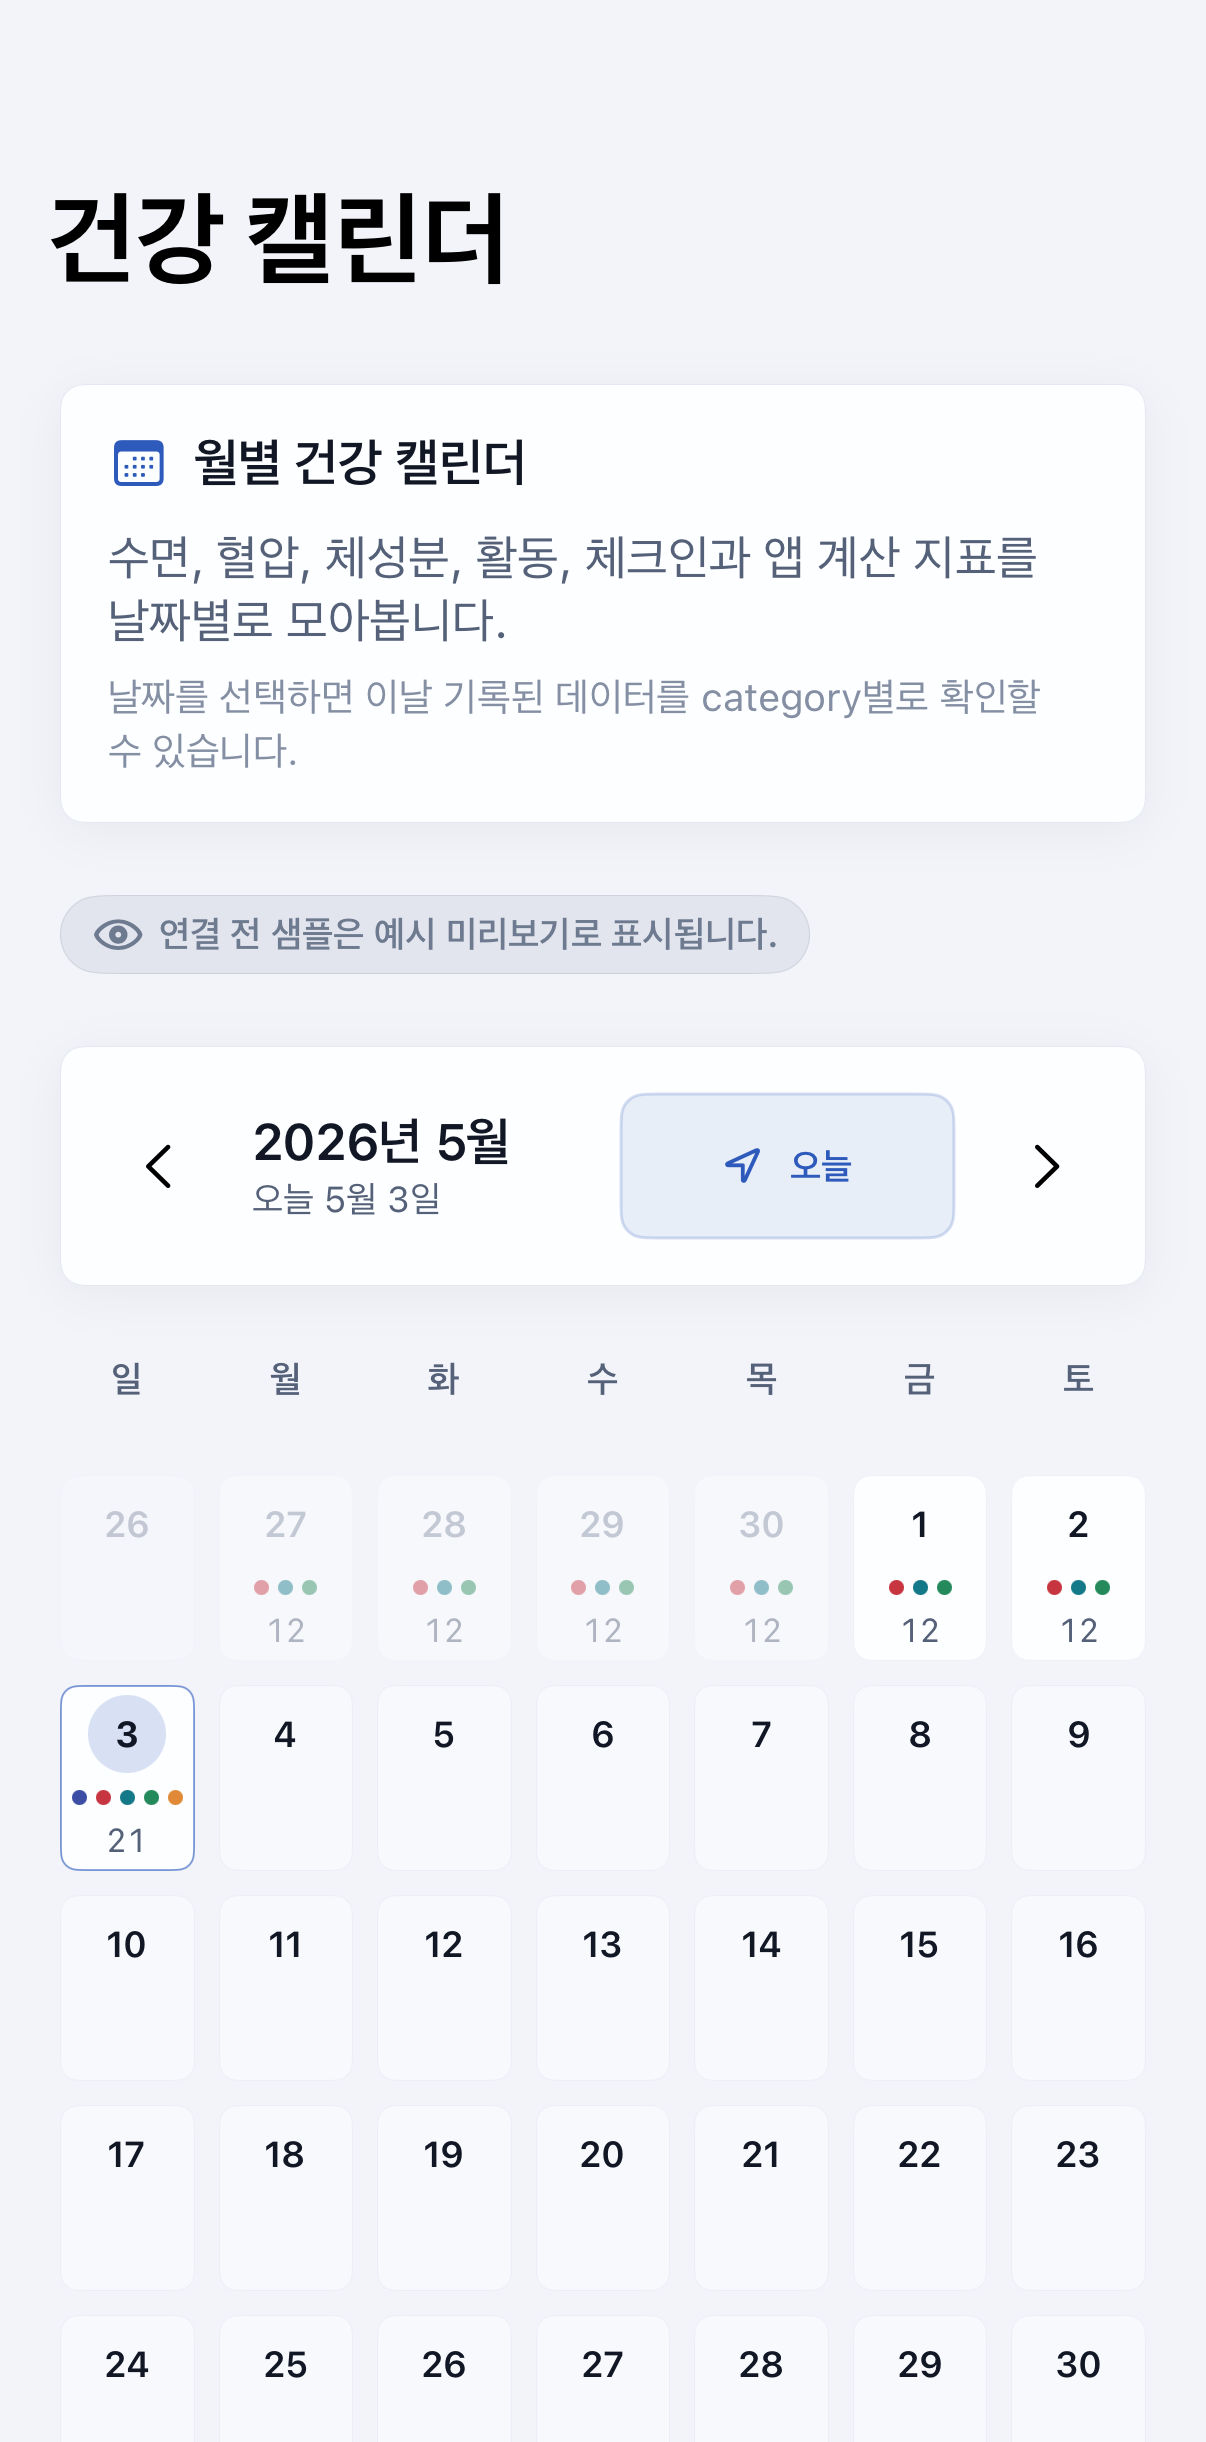
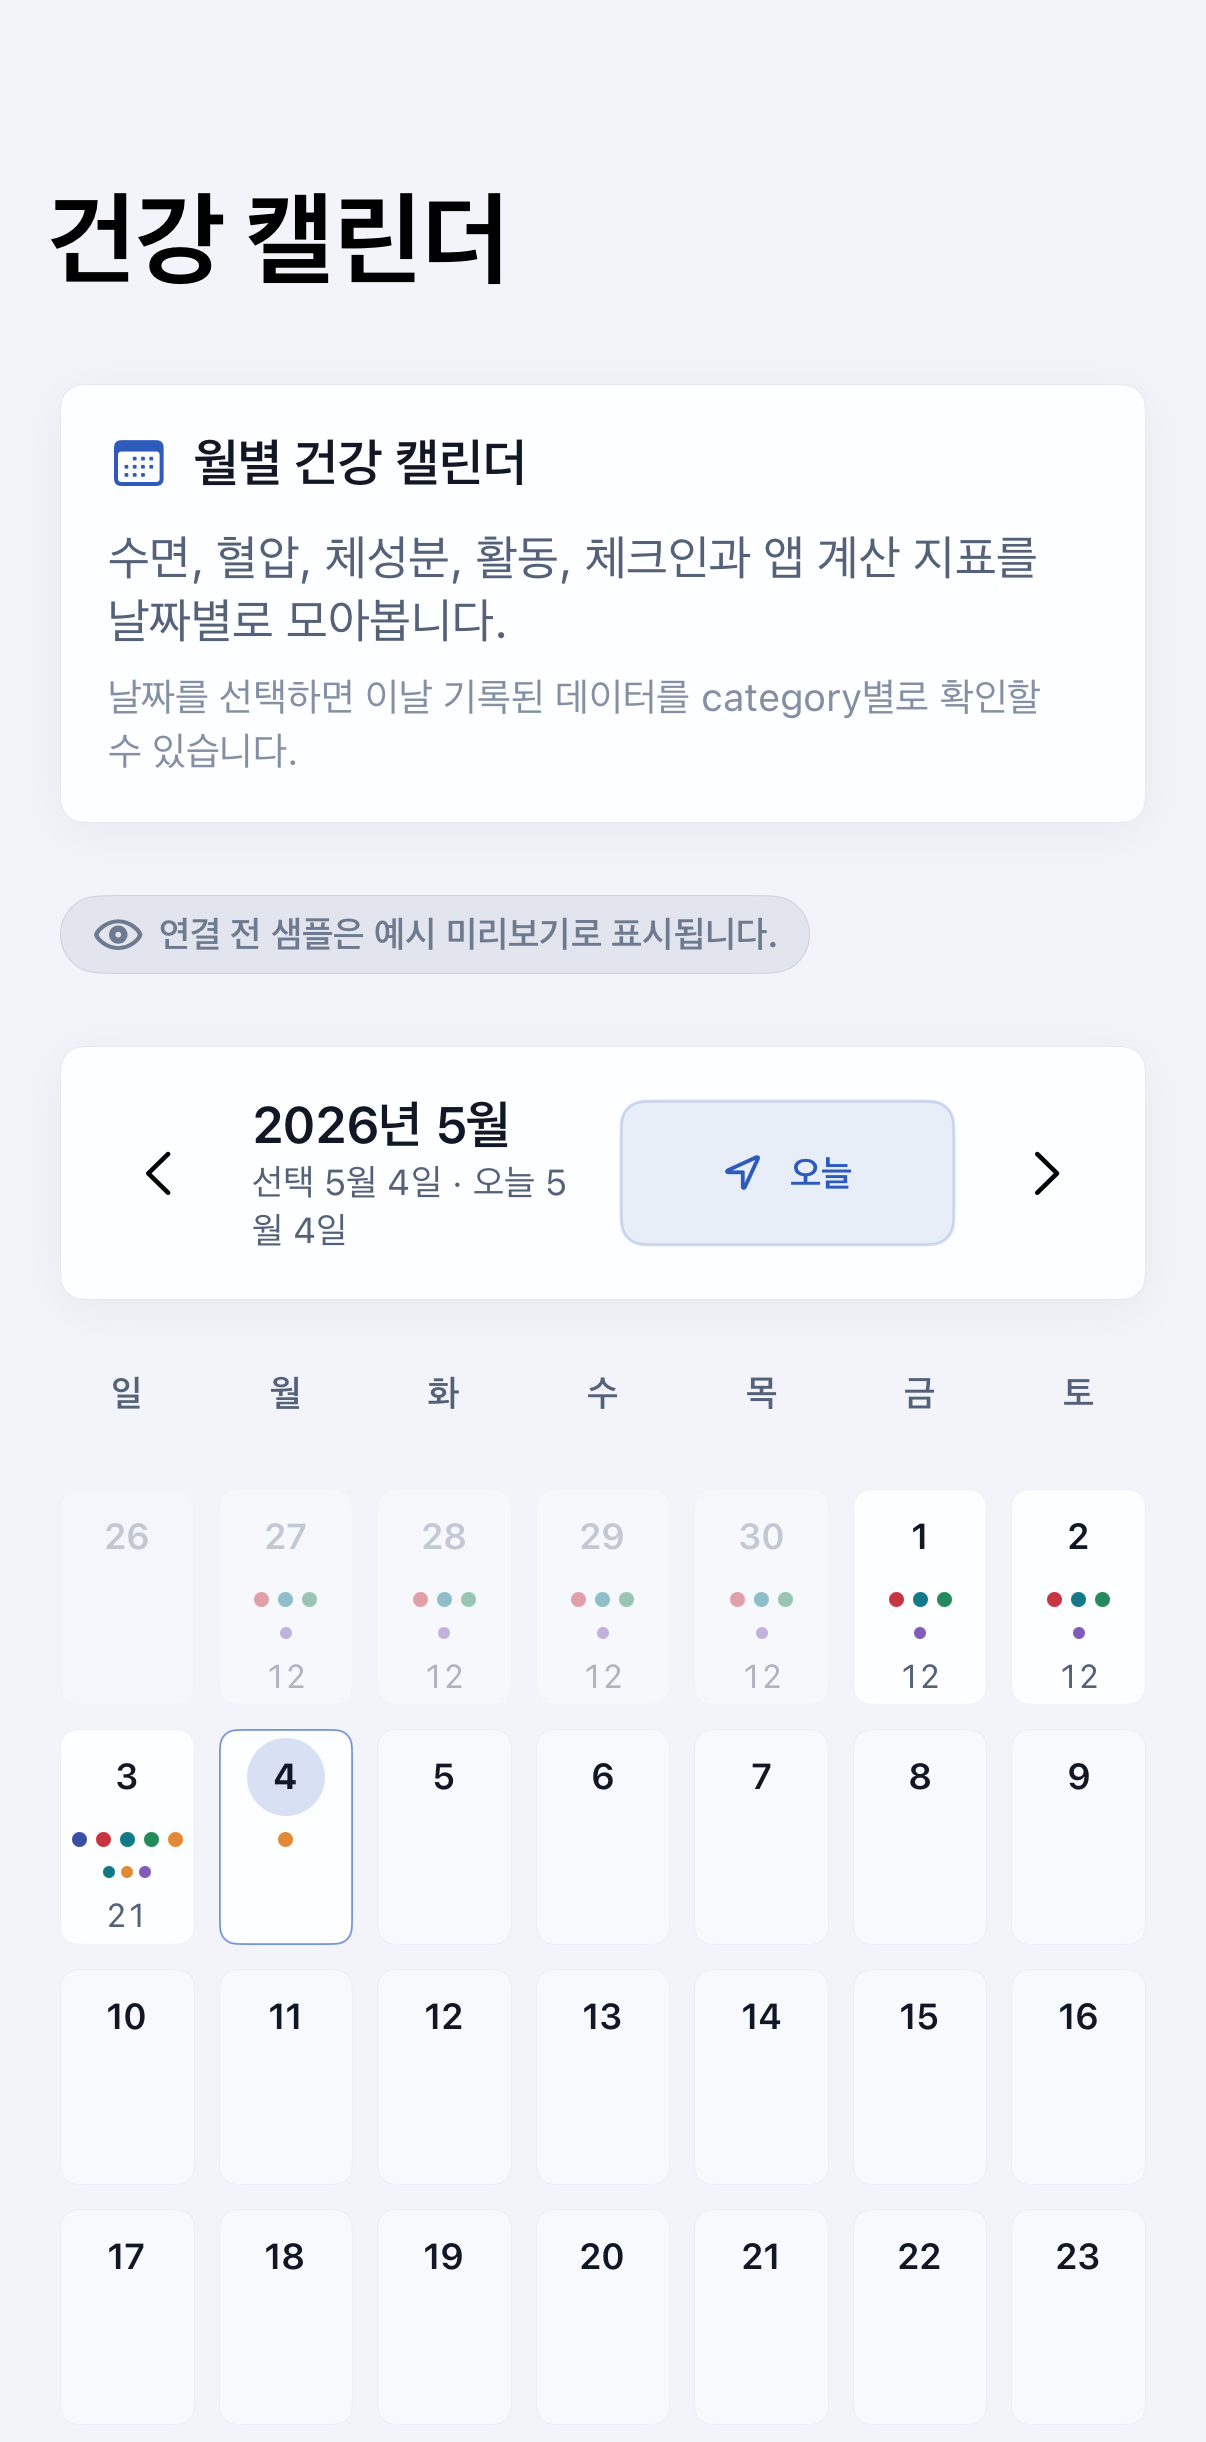
Add screenshots for extended health metric screens

diff --git a/Docs/UI_GALLERY.md b/Docs/UI_GALLERY.md
@@ -18,7 +18,7 @@ NightBreath는 수면 중 소리 기반 지표에서 시작해 하루 건강 리
 - Light/Dark screenshot은 같은 예시 state에서 각각 확인하고, 긴 한국어 문구가 잘리지 않는지 봅니다.
 - Debug-only 화면은 Release 사용자 screenshot 후보에 포함하지 않습니다.
 
-현재 README 대표 screenshot 8개와 EHM 상세 screenshot은 `iPhone 17 Pro` simulator, DEBUG build, 예시 데이터 상태에서 생성했습니다. 아직 캡처하지 않은 상세 화면과 edge state는 `screenshot pending`으로 유지합니다.
+현재 README 대표 screenshot 8개와 EHM 상세 screenshot 8개는 `iPhone 17 Pro` simulator, DEBUG build, 예시 데이터 상태에서 생성했습니다. 아직 캡처하지 않은 상세 화면과 edge state는 `screenshot pending`으로 유지합니다.
 
 ## 예시 데이터 사용 원칙
 
@@ -33,6 +33,26 @@ NightBreath는 수면 중 소리 기반 지표에서 시작해 하루 건강 리
 - 서버 전송, 자동 공유, 외부 SDK 사용을 암시하지 않습니다.
 - 수면 소리 지표와 건강 지표를 함께 보여도 인과관계를 의미하지 않는다는 안내를 유지합니다.
 - 모든 건강 관련 화면에는 필요 시 “이 앱은 진단 목적의 의료기기가 아닙니다.” 또는 동등한 안전 문구를 포함합니다.
+
+## EHM Screenshot Status
+
+EHM screenshot은 `ScreenshotScenario`의 DEBUG launch argument로 직접 진입해 캡처합니다. 원본은 `Docs/Screenshots/Health/`에 보존하고, UI Gallery에는 `Docs/Screenshots/Health/cropped/` 경로를 사용합니다.
+
+| 범위 | 상태 | 파일 |
+| --- | --- | --- |
+| 전체 건강 지표 | captured | `Docs/Screenshots/Health/cropped/health_metrics_overview_light.png` |
+| Fitdays import empty | captured | `Docs/Screenshots/Health/cropped/fitdays_import_light.png` |
+| Fitdays import result | captured | `Docs/Screenshots/Health/cropped/fitdays_import_result_light.png` |
+| Fitdays import error | captured | `Docs/Screenshots/Health/cropped/fitdays_import_error_light.png` |
+| 월 건강 캘린더 | captured | `Docs/Screenshots/Health/cropped/health_calendar_light.png` |
+| 날짜별 전체 데이터 상세 | captured | `Docs/Screenshots/Health/cropped/daily_measurement_detail_light.png` |
+| Metric detail 체수분 | captured | `Docs/Screenshots/Health/cropped/metric_detail_body_water_light.png` |
+| Metric detail local-only 기초대사량 | captured | `Docs/Screenshots/Health/cropped/metric_detail_basal_metabolic_rate_light.png` |
+| 혈압 dashboard | screenshot pending | `Docs/Screenshots/Health/blood-pressure-dashboard.png` |
+| 체성분 dashboard | screenshot pending | `Docs/Screenshots/Health/body-composition-dashboard.png` |
+| Cross metric dashboard | screenshot pending | `Docs/Screenshots/Health/cross-metric-dashboard.png` |
+| Health permission empty state | screenshot pending | `Docs/Screenshots/EdgeStates/health-permission-empty.png` |
+| Metric detail empty state | screenshot pending | `Docs/Screenshots/EdgeStates/metric-detail-empty.png` |
 
 ## Home / Dashboard
 
@@ -66,12 +86,12 @@ NightBreath는 수면 중 소리 기반 지표에서 시작해 하루 건강 리
 | View name | 역할 | 주요 표시 데이터 | 주요 액션 | Privacy / Safety notes | Suggested scenario | Suggested screenshot path | Screenshot | Release 노출 | 관련 문서 |
 | --- | --- | --- | --- | --- | --- | --- | --- | --- | --- |
 | `HealthDashboardView` | 건강 데이터 허브 | read-only 연결 상태, 최근 건강 지표, source, 하위 dashboard 진입점 | 건강 데이터 연결, 혈압/체성분/교차 보기 진입 | HealthKit read-only, 서버 전송 없음, 권한 거부 시 수면 기능 유지 | `ScreenshotHealthDashboardScenario` | `Docs/Screenshots/README/cropped/health_dashboard_light.png` | ![HealthDashboardView](Screenshots/README/cropped/health_dashboard_light.png) | Release | `Docs/HEALTH_DATA_GUIDE.md` |
-| `HealthMetricsOverviewView` | 전체 건강 지표 통계/그래프 허브 | HealthKit-backed 지표, Fitdays local-only 지표, 기간별 최근값/평균/변화, source | 기간 선택, metric detail 진입 | source type을 구분하고 수치 해석을 단정하지 않음 | `ScreenshotHealthMetricsOverviewScenario` | `Docs/Screenshots/Health/cropped/health_metrics_overview_light.png` | ![HealthMetricsOverviewView](Screenshots/Health/cropped/health_metrics_overview_light.png) | Release | `Docs/HEALTH_DATA_GUIDE.md` |
-| `MetricDetailView` | metric 하나의 상세 탐색 | metric 설명, 최근 값, 단위, 기간/source filter, 그래프, 통계, raw 샘플 목록 | 기간 선택, source filter, 샘플 확인 | HealthKit-backed/local-only 설명을 구분하고 개인 참고용으로 표시 | `ScreenshotMetricDetailScenario` | `Docs/Screenshots/Health/cropped/metric_detail_body_water_light.png` | ![MetricDetailView](Screenshots/Health/cropped/metric_detail_body_water_light.png) | Release | `Docs/HEALTH_DATA_GUIDE.md` |
-| `MetricDetailView` local-only 예시 | Fitdays 확장 local-only metric 상세 예시 | 기초대사량 설명, source filter, 기간별 그래프, 원본 샘플 목록 | 기간 선택, source filter, 샘플 확인 | HealthKit 표준 지표가 아닌 local-only 샘플임을 명확히 표시 | `ScreenshotLocalOnlyMetricScenario` | `Docs/Screenshots/Health/cropped/metric_detail_basal_metabolic_rate_light.png` | ![MetricDetailView local-only](Screenshots/Health/cropped/metric_detail_basal_metabolic_rate_light.png) | Release | `Docs/HEALTH_DATA_GUIDE.md` |
-| `HealthCalendarView` | 월 단위 건강 캘린더 | 날짜별 수면/혈압/체성분/활동/check-in dot, 샘플 수, data quality | 이전/다음 월, 오늘 이동, 날짜 선택 | 같은 날짜 데이터가 인과관계를 의미하지 않음을 안내 | `ScreenshotHealthCalendarScenario` | `Docs/Screenshots/Health/cropped/health_calendar_light.png` | ![HealthCalendarView](Screenshots/Health/cropped/health_calendar_light.png) | Release | `Docs/HEALTH_DATA_GUIDE.md` |
-| `DailyMeasurementDetailView` | 날짜별 전체 데이터 상세 | 수면, 아침/저녁 체크인, 혈압, 체성분, Fitdays 확장, 활동, 앱 계산 지표, source | metric detail 진입 | 날짜별 묶음은 개인 참고용이며 source를 함께 표시 | `ScreenshotDailyMeasurementDetailScenario` | `Docs/Screenshots/Health/cropped/daily_measurement_detail_light.png` | ![DailyMeasurementDetailView](Screenshots/Health/cropped/daily_measurement_detail_light.png) | Release | `Docs/HEALTH_DATA_GUIDE.md` |
-| `FitdaysImportView` | Fitdays export file 가져오기 | 파일 선택 상태, preview, imported/skipped/error row count, unknown column | 파일 선택, preview 확인, 로컬 저장 | 사용자가 직접 선택한 로컬 파일만 읽고 원격 연결 없음 | `ScreenshotFitdaysImportScenario` | `Docs/Screenshots/Health/cropped/fitdays_import_light.png` | ![FitdaysImportView](Screenshots/Health/cropped/fitdays_import_light.png) | Release | `Docs/HEALTH_DATA_GUIDE.md` |
+| `HealthMetricsOverviewView` | 전체 건강 지표 통계/그래프 허브 | HealthKit-backed 지표, Fitdays local-only 지표, 기간별 최근값/평균/변화, source badge | 기간 선택, metric detail 진입 | source type을 구분하고 수치 해석을 단정하지 않음 | `ScreenshotHealthMetricsOverviewScenario` | `Docs/Screenshots/Health/cropped/health_metrics_overview_light.png` | ![HealthMetricsOverviewView](Screenshots/Health/cropped/health_metrics_overview_light.png) | Release | `Docs/HEALTH_DATA_GUIDE.md` |
+| `MetricDetailView` | metric 하나의 상세 탐색 | metric 설명, 최근 값, 단위, HealthKit-backed/local-only badge, 기간/source filter, 그래프, 통계, raw 샘플 목록 | 기간 선택, source filter, 샘플 확인 | HealthKit-backed/local-only 설명을 구분하고 개인 참고용으로 표시 | `ScreenshotMetricDetailScenario` | `Docs/Screenshots/Health/cropped/metric_detail_body_water_light.png` | ![MetricDetailView](Screenshots/Health/cropped/metric_detail_body_water_light.png) | Release | `Docs/HEALTH_DATA_GUIDE.md` |
+| `MetricDetailView` local-only 예시 | Fitdays 확장 local-only metric 상세 예시 | 기초대사량 설명, Local-only/Fitdays CSV badge, source filter, 기간별 그래프, 원본 샘플 목록 | 기간 선택, source filter, 샘플 확인 | HealthKit 표준 지표가 아닌 local-only 샘플임을 명확히 표시 | `ScreenshotLocalOnlyMetricScenario` | `Docs/Screenshots/Health/cropped/metric_detail_basal_metabolic_rate_light.png` | ![MetricDetailView local-only](Screenshots/Health/cropped/metric_detail_basal_metabolic_rate_light.png) | Release | `Docs/HEALTH_DATA_GUIDE.md` |
+| `HealthCalendarView` | 월 단위 건강 캘린더 | 날짜별 수면/혈압/체성분/활동/check-in category dot, source dot, 샘플 수, data quality, 선택 날짜 panel | 이전/다음 월, 오늘 이동, 날짜 선택, 날짜 상세 진입 | 같은 날짜 데이터가 인과관계를 의미하지 않음을 안내 | `ScreenshotHealthCalendarScenario` | `Docs/Screenshots/Health/cropped/health_calendar_light.png` | ![HealthCalendarView](Screenshots/Health/cropped/health_calendar_light.png) | Release | `Docs/HEALTH_DATA_GUIDE.md` |
+| `DailyMeasurementDetailView` | 날짜별 전체 데이터 상세 | 수면, 아침/저녁 체크인, 혈압, 체성분, Fitdays 확장, 활동, 앱 계산 지표, source badge | metric detail 진입 | 날짜별 묶음은 개인 참고용이며 source를 함께 표시 | `ScreenshotDailyMeasurementDetailScenario` | `Docs/Screenshots/Health/cropped/daily_measurement_detail_light.png` | ![DailyMeasurementDetailView](Screenshots/Health/cropped/daily_measurement_detail_light.png) | Release | `Docs/HEALTH_DATA_GUIDE.md` |
+| `FitdaysImportView` | Fitdays CSV/structured export file 가져오기 | 파일 선택 상태, preview, imported/skipped/error row count, unknown column | 파일 선택, preview 확인, 로컬 저장 | 사용자가 직접 선택한 로컬 파일만 읽고 원격 연결 없음 | `ScreenshotFitdaysImportScenario` | `Docs/Screenshots/Health/cropped/fitdays_import_light.png` | ![FitdaysImportView](Screenshots/Health/cropped/fitdays_import_light.png) | Release | `Docs/HEALTH_DATA_GUIDE.md` |
 | `BloodPressureDashboardView` | 혈압 데이터 보기 | 최근 수축기/이완기 혈압, 측정 시각, sourceName, 7일/30일/90일 추세 | 기간 선택 | 수치를 상태 판정으로 표현하지 않음 | `ScreenshotHealthDashboardScenario` 이후 수동 진입 | `Docs/Screenshots/Health/blood-pressure-dashboard.png` | screenshot pending | Release | `Docs/HEALTH_DATA_GUIDE.md` |
 | `BodyCompositionDashboardView` | 체중/체성분 데이터 보기 | 체중, 체지방률, BMI, 제지방량, sourceName, 추세 | 기간 선택 | 개인 참고용 데이터로만 표시 | `ScreenshotHealthDashboardScenario` 이후 수동 진입 | `Docs/Screenshots/Health/body-composition-dashboard.png` | screenshot pending | Release | `Docs/HEALTH_DATA_GUIDE.md` |
 | `CrossMetricDashboardView` | 수면 소리 지표와 건강 지표 참고용 비교 | 수면 지표, 건강 지표, 날짜별 매칭, 샘플 수, sourceName | 비교 항목/기간 선택 | 데이터가 부족하면 분석하지 않고 인과관계를 의미하지 않는다고 안내 | `ScreenshotHealthDashboardScenario` 이후 수동 진입 | `Docs/Screenshots/Health/cross-metric-dashboard.png` | screenshot pending | Release | `Docs/HEALTH_DATA_GUIDE.md` |
